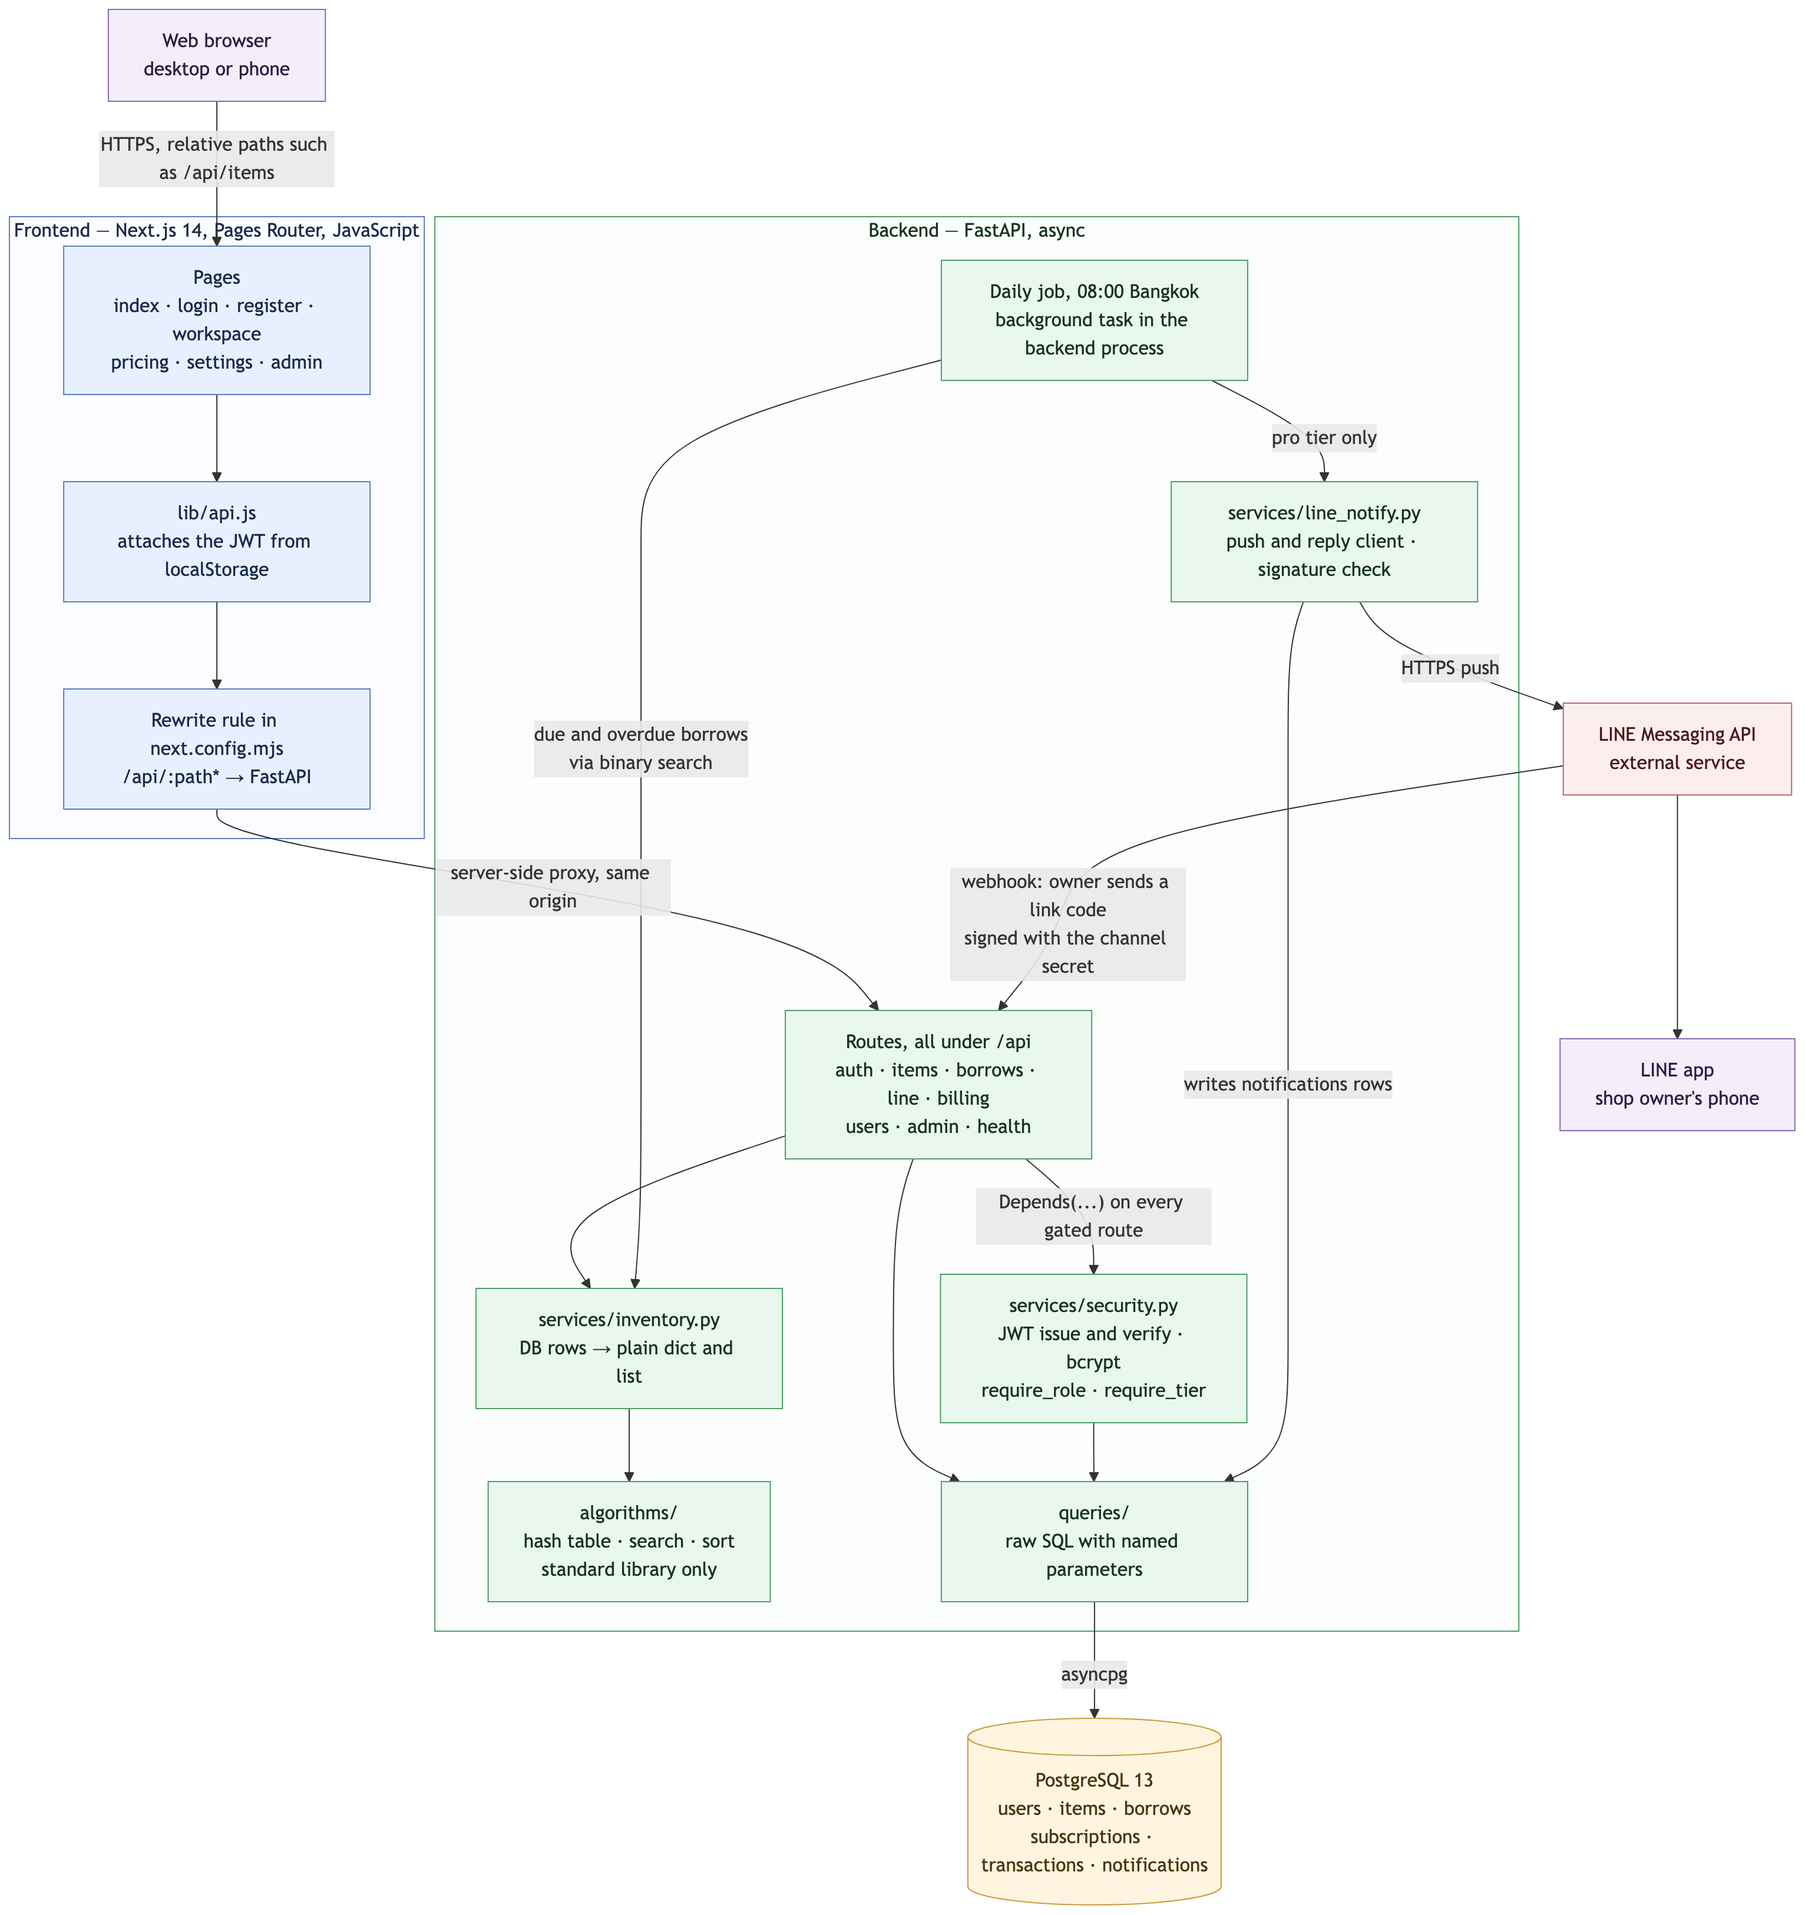
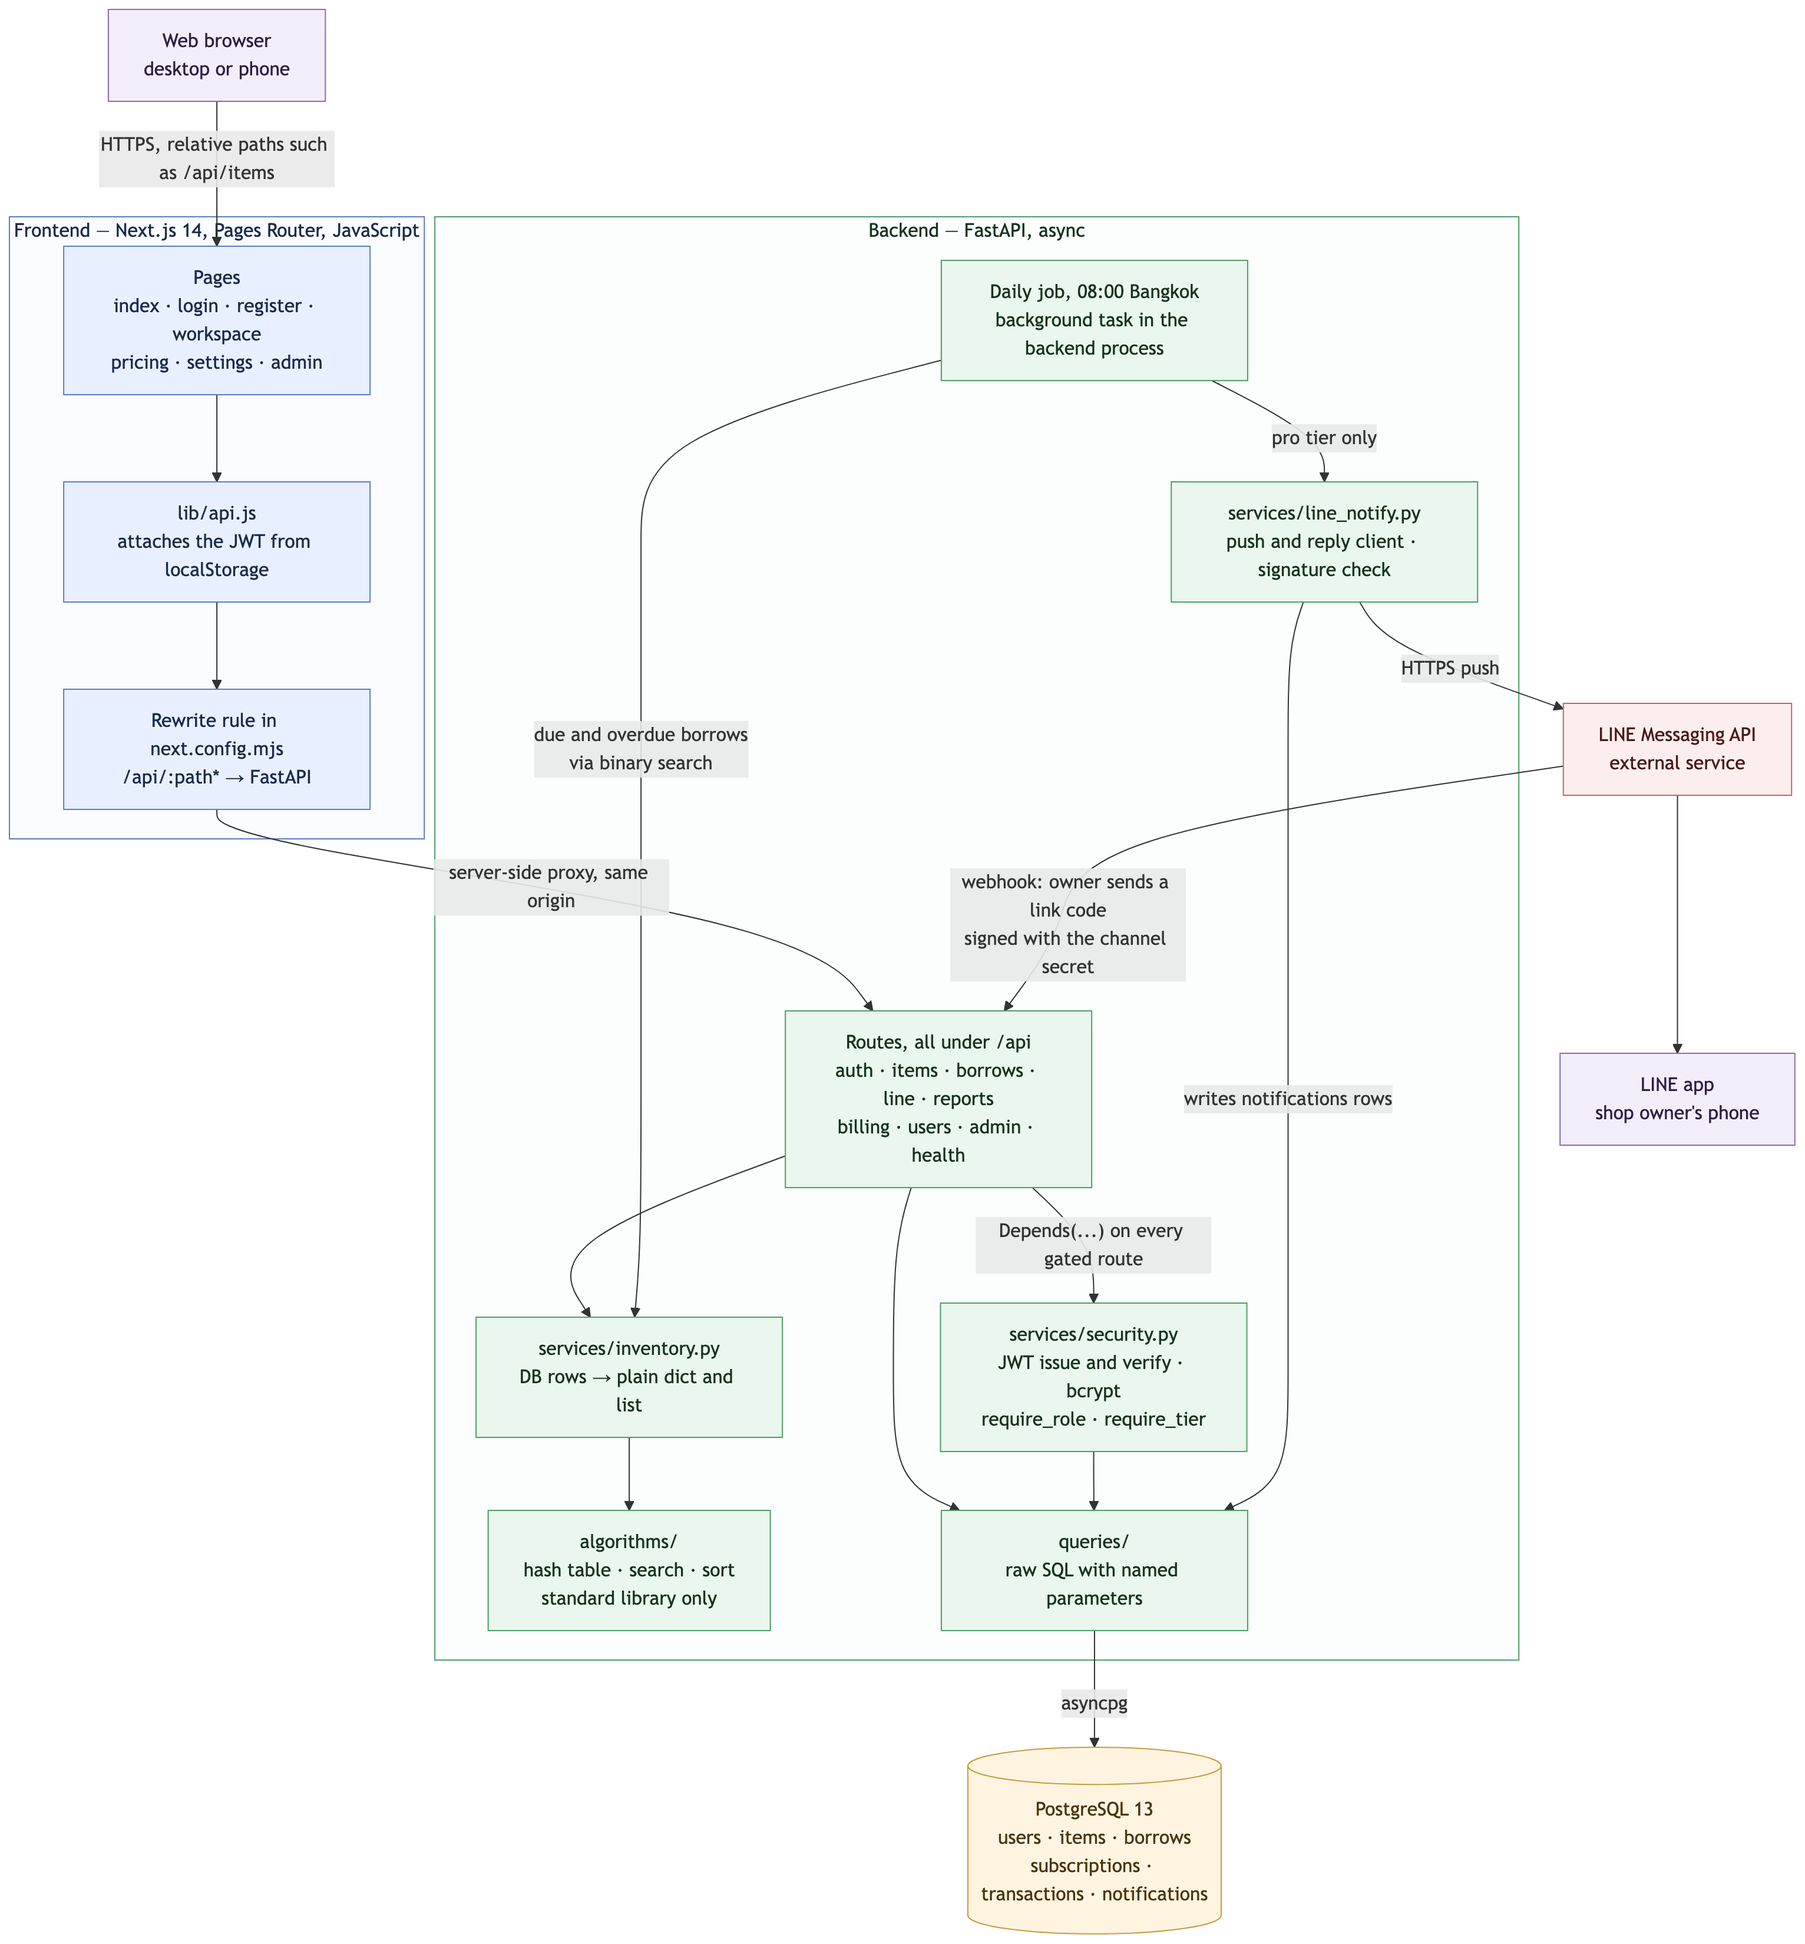
docs(design): สคริปต์รวมเล่ม Design Document เป็น PDF และกติกาเขียนของแต่ละหัวข้อ
คิมต้องรวมเล่มวันที่ 15-20 ต.ค. เตรียมไว้ตอนนี้ วันนั้นเหลือคำสั่งเดียว

scripts/build-design-doc.mjs
  ดึง 01-...md ถึง 11-...md เรียงตามเลข ฝังรูป ฟอนต์ไทย หน้าปก สารบัญ เลขหน้า
  ฉบับร่าง: สร้างได้ทุกเมื่อ หัวข้อที่ขาดขึ้นเป็นหน้าบอกว่าใครรับผิดชอบ
  --final: ไม่ยอมสร้างถ้ายังขาดหัวข้อ ยังมี [Editor's note] ค้าง
  หรือยังมีช่อง [ full name ] / [ TODO ] ที่ไม่ได้กรอก
  จะได้ไม่เผลอส่งเล่มที่ยังไม่เสร็จ

docs/design-document/README.md
  ชื่อไฟล์ของแต่ละหัวข้อ + เจ้าของ + กติกา (อังกฤษ · เขียนเฉพาะที่ทำได้จริง ·
  วิธีใส่รูป · วิธีทิ้งโน้ตถึงกัน) ถ้าไม่กำหนดตั้งแต่ตอนนี้ แต่ละคนจะตั้งชื่อ
  ไฟล์กันคนละแบบแล้วสคริปต์หาไม่เจอ

อื่นๆ
  ใส่ชื่อ Pongsicha Seesavat (Sea) ในหัวข้อ 1
  หัวข้อ 4 เพิ่มรายงาน/CSV และการหมดอายุของ Pro · แผนผังเพิ่ม route reports
  CLAUDE.md ระบุ routes/reports.py + queries/reports.py เป็นของ Kim
  ฉบับร่างออกที่ docs/design-document/build/ ซึ่งไม่ขึ้น git

diff --git a/docs/design-document/README.md b/docs/design-document/README.md
@@ -1,0 +1,55 @@
+# Design Document — วิธีเขียนและรวมเล่ม
+
+เอกสารส่งวันที่ **21 ต.ค.** เป็น PDF เล่มเดียว แต่ละคนเขียนหัวข้อของตัวเองเป็นไฟล์แยก
+แล้วคิมรวมเล่มด้วยคำสั่งเดียว (ดูท้ายไฟล์)
+
+## ไฟล์ของแต่ละหัวข้อ
+
+ตั้งชื่อไฟล์**ตามตารางนี้เป๊ะ** สคริปต์รวมเล่มหาไฟล์จากเลขนำหน้า ถ้าตั้งชื่อผิด หัวข้อนั้นจะหายจากเล่ม
+
+| หัวข้อ | ไฟล์ | เจ้าของ | สถานะ |
+|---|---|---|---|
+| 1. Project Overview | `01-project-overview.md` | Kim | ✅ |
+| 2. Requirements (functional + non-functional) | `02-requirements.md` | Neo | |
+| 3. UI/UX Design (Figma wireframes + user flow) | `03-ui-ux-design.md` | Sea | |
+| 4. System Design (architecture + ER diagram) | `04-system-design.md` | Kim | ✅ |
+| 5. Security Design (JWT, password hashing, RBAC) | `05-security-design.md` | Kul | |
+| 6. Monetization & Feature Gating | `06-monetization.md` | Kul | |
+| 7. Business Analytics Dashboard | `07-analytics-dashboard.md` | Sea | |
+| 8. External System Integration (LINE Messaging API) | `08-external-integration.md` | Neo | |
+| 9. Testing Plan | `09-testing-plan.md` | Neo | |
+| 10. Timeline and Milestones | `10-timeline.md` | Sea | |
+| 11. Deployment Plan | `11-deployment-plan.md` | Kim | ✅ |
+
+> ลำดับและชื่อหัวข้อมาจากแผนที่แบ่งงานกันไว้ ก่อนเขียนให้เทียบกับแม่แบบของอาจารย์ใน Notion อีกรอบ
+> ถ้าแม่แบบมีหัวข้อย่อยที่บังคับ ต้องมีครบ
+
+## กติกาการเขียน
+
+1. **ภาษาอังกฤษ** ให้ตรงกับ Proposal ที่ส่งไปแล้ว ประโยคสั้น ตรงไปตรงมา
+2. **บรรทัดแรกของไฟล์เป็นหัวข้อใหญ่** เช่น `# 2. Requirements` (มี `#` ตัวเดียว)
+   หัวข้อย่อยใช้ `##` และ `###`
+3. **เขียนเฉพาะสิ่งที่ระบบทำได้จริง** ถ้ายังไม่ได้ทำ ให้เขียนว่า planned หรือไม่ต้องเขียน
+   อาจารย์เปิดโค้ดเทียบได้ และจะเทสสดตอนพรีเซนต์
+4. **รูปภาพ** เก็บใน `docs/design-document/images/` แล้วอ้างแบบนี้
+   `![คำอธิบายรูป](images/ชื่อไฟล์.png)` ใช้ PNG พื้นขาว
+   ตัวอย่างอยู่ใน `04-system-design.md`
+5. **ตาราง** ใช้รูปแบบ markdown ปกติ `| หัว | หัว |` ได้เลย
+6. **โน้ตถึงกันเอง** ให้เขียนขึ้นต้นด้วย `> [Editor's note` เช่น
+   `> [Editor's note] รอข้อมูลจากกุล`
+   ตอนรวมเล่มฉบับจริง สคริปต์จะไม่ยอมสร้าง PDF ถ้ายังมีโน้ตแบบนี้ค้าง
+7. commit ไฟล์ของตัวเองด้วยบัญชีตัวเอง แล้วเปิด PR เหมือนงานโค้ด
+
+## รวมเล่ม (คิมเป็นคนรัน)
+
+```bash
+# ฉบับร่าง — ใช้ได้ทุกเมื่อ หัวข้อที่ยังไม่มีจะขึ้นเป็นหน้าว่างบอกว่าใครรับผิดชอบ
+node scripts/build-design-doc.mjs
+
+# ฉบับส่งจริง — ไม่ยอมสร้างถ้ายังขาดหัวข้อ ยังมีโน้ตค้าง หรือยังมีช่อง [ ... ] ที่ไม่ได้กรอก
+node scripts/build-design-doc.mjs --final
+```
+
+- ฉบับร่างออกที่ `docs/design-document/build/` (ไม่ขึ้น git)
+- ฉบับจริงออกที่ `docs/design-document/LEBIS_Design_Document.pdf`
+- ต้องต่ออินเทอร์เน็ตตอนรัน (โหลดฟอนต์และตัวแปลง markdown)

diff --git a/CLAUDE.md b/CLAUDE.md
@@ -92,14 +92,16 @@ LEBIS-Project/
 │   │   ├── billing.py             KUL
 │   │   ├── users.py               SEA
 │   │   ├── admin.py               SEA
-│   │   └── line.py                KIM — link code, test, digest, LINE webhook
+│   │   ├── line.py                KIM — link code, test, digest, LINE webhook
+│   │   └── reports.py             KIM — rental history (Free 7 days) + CSV export (Pro)
 │   ├── queries/                   raw-SQL functions, one module per domain
 │   │   ├── items.py               NEO
 │   │   ├── borrows.py             NEO
 │   │   ├── billing.py             KUL
 │   │   ├── admin.py               SEA
 │   │   ├── inventory.py           KIM — read-only SQL feeding services/inventory.py
-│   │   └── notifications.py       KIM — notifications table + LINE link codes
+│   │   ├── notifications.py       KIM — notifications table + LINE link codes
+│   │   └── reports.py             KIM — rental history query
 │   ├── services/
 │   │   ├── security.py            KIM — JWT, bcrypt, role/tier dependencies
 │   │   ├── inventory.py           KIM — maps DB rows to plain dict/list, calls algorithms/
@@ -328,7 +330,7 @@ write code into another member's files.
 
 | Person | Backend | Frontend | Also owns |
 |---|---|---|---|
-| **Kim** (lead) | `database.py` schema, `routes/auth.py`, `services/security.py`, `services/line_notify.py` + `routes/line.py` + `queries/notifications.py`, `services/inventory.py` + `queries/inventory.py`, `algorithms/hash_table.py` | `pages/login.js`, `pages/register.js` | repo setup, docker, deployment, PR review |
+| **Kim** (lead) | `database.py` schema, `routes/auth.py`, `services/security.py`, `services/line_notify.py` + `routes/line.py` + `queries/notifications.py`, `services/inventory.py` + `queries/inventory.py`, `routes/reports.py` + `queries/reports.py`, `algorithms/hash_table.py` | `pages/login.js`, `pages/register.js` | repo setup, docker, deployment, PR review |
 | **Neo** | `routes/items.py`, `routes/borrows.py`, `queries/items.py`, `queries/borrows.py`, `algorithms/search.py`, `algorithms/datasets.py` | `pages/workspace.js` | LINE API doc section, testing plan |
 | **Kul** | `routes/billing.py`, `queries/billing.py`, tier enforcement, `algorithms/sort_group.py` | `pages/pricing.js` | security + monetization doc sections |
 | **Sea** | `routes/users.py`, `routes/admin.py`, `queries/admin.py` | `pages/index.js`, `pages/settings.js`, `pages/admin.js` | Figma wireframes, analytics doc |

diff --git a/docs/design-document/04-system-design.md b/docs/design-document/04-system-design.md
@@ -112,6 +112,26 @@ shop and the date. The LINE platform discards a second request with the same key
 for 24 hours. Both guards matter when the backend restarts after 08:00 and the job
 runs again.
 
+### Rental report and CSV export
+
+1. `GET /api/reports/rentals` returns every rental in the requested window, the
+   estimated revenue (daily rate × days rented) and the five items that earned the
+   most — the answer to the owner's third problem, not knowing which items earn.
+2. A Free account asking for more than 7 days receives the last 7 days and
+   `limited: true`. The plan limits history; it does not remove the report.
+3. `GET /api/reports/rentals.csv` is Pro only and returns **403** to a Free account.
+   The file starts with a UTF-8 byte-order mark so Excel shows Thai text correctly,
+   and any cell that begins with `=`, `+`, `-` or `@` is prefixed with `'` so Excel
+   treats it as text rather than a formula.
+
+### Pro subscriptions expire
+
+A Pro subscription lasts 30 days. The expiry is checked in `get_current_user`, the
+dependency every signed-in request passes through, and again by the daily LINE job,
+which does not go through a request. When the active subscription has expired, one
+SQL statement marks it `expired` and sets the account back to `free`, so the very
+next request sees Free limits.
+
 ### Linking a LINE account
 
 The owner never types a LINE user ID.

diff --git a/docs/architecture.md b/docs/architecture.md
@@ -26,7 +26,7 @@ flowchart TB
 
     subgraph backend["Backend — FastAPI, async"]
         direction TB
-        routes["Routes, all under /api<br/>auth · items · borrows · line · billing<br/>users · admin · health"]
+        routes["Routes, all under /api<br/>auth · items · borrows · line · reports<br/>billing · users · admin · health"]
         security["services/security.py<br/>JWT issue and verify · bcrypt<br/>require_role · require_tier"]
         inventory["services/inventory.py<br/>DB rows → plain dict and list"]
         algorithms["algorithms/<br/>hash table · search · sort<br/>standard library only"]

diff --git a/docs/design-document/01-project-overview.md b/docs/design-document/01-project-overview.md
@@ -96,7 +96,7 @@ runs unchanged in Google Colab.
 | Nithit Srisengsuwanchai (Kim) | Team lead. Project setup, database, sign-in, LINE integration, deployment |
 | Intuch Srisawat (Neo) | Workspace page — items and rental records |
 | Issaree Ausavapirom (Kul) | Pricing and checkout page — Free and Pro limits |
-| [ full name ] (Sea) | Landing page, settings page, admin dashboard |
+| Pongsicha Seesavat (Sea) | Landing page, settings page, admin dashboard |
 
 Each member owns their pages from the API to the user interface, so every member
 has commits on both the backend and the frontend.
